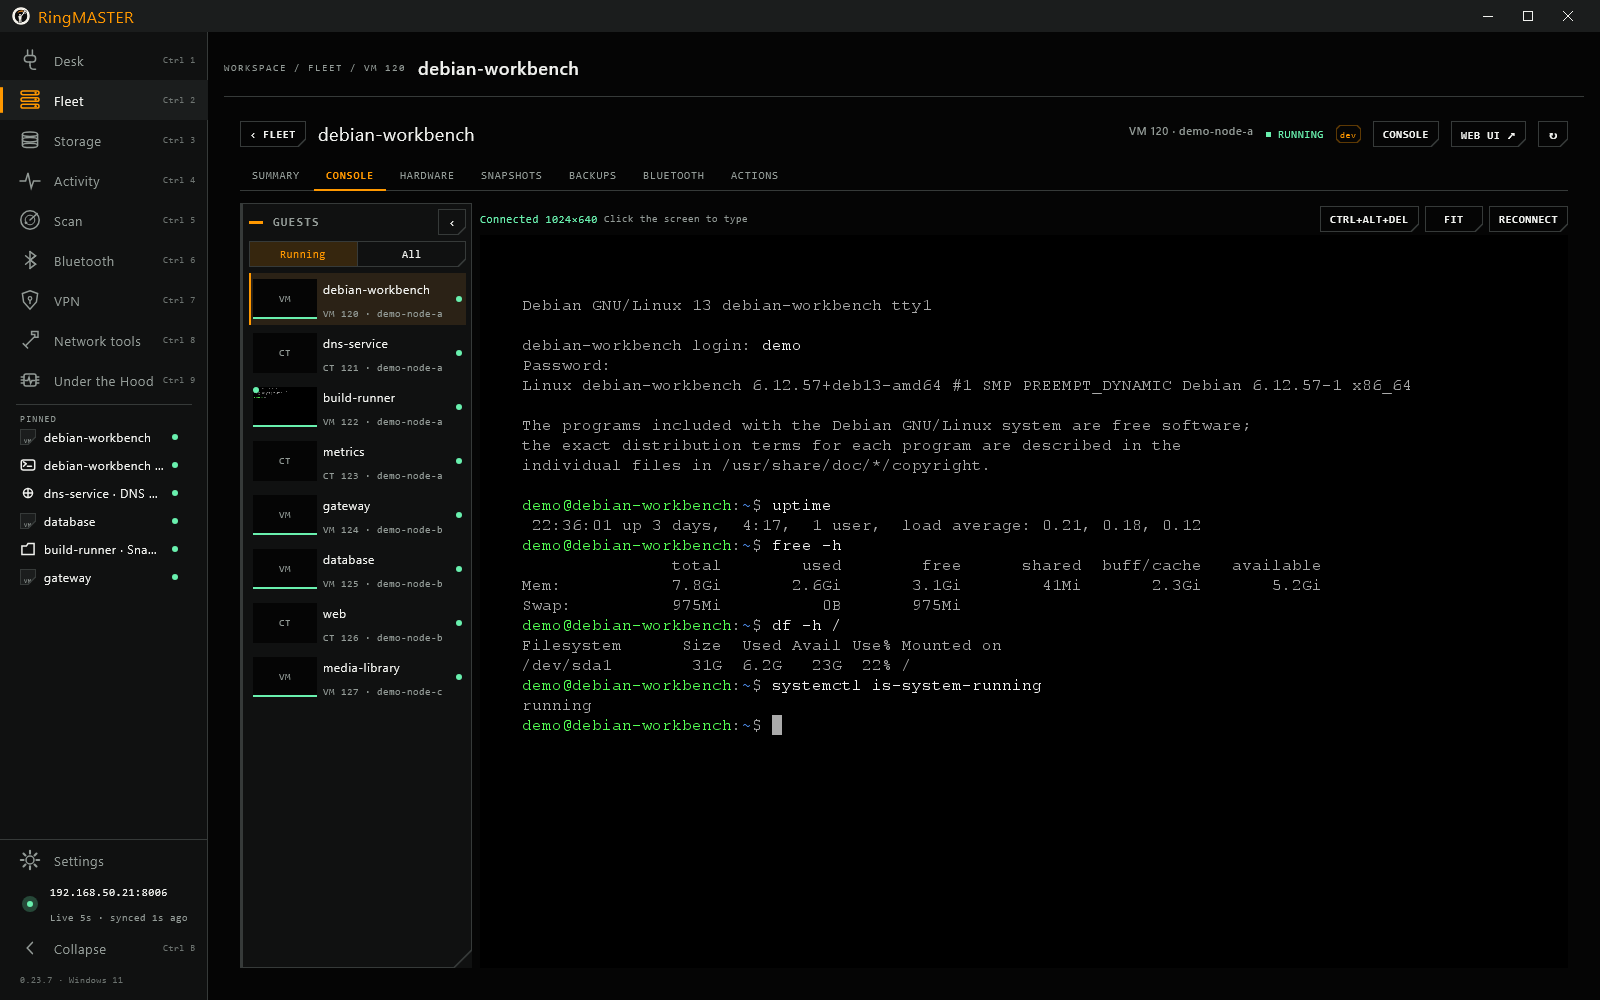
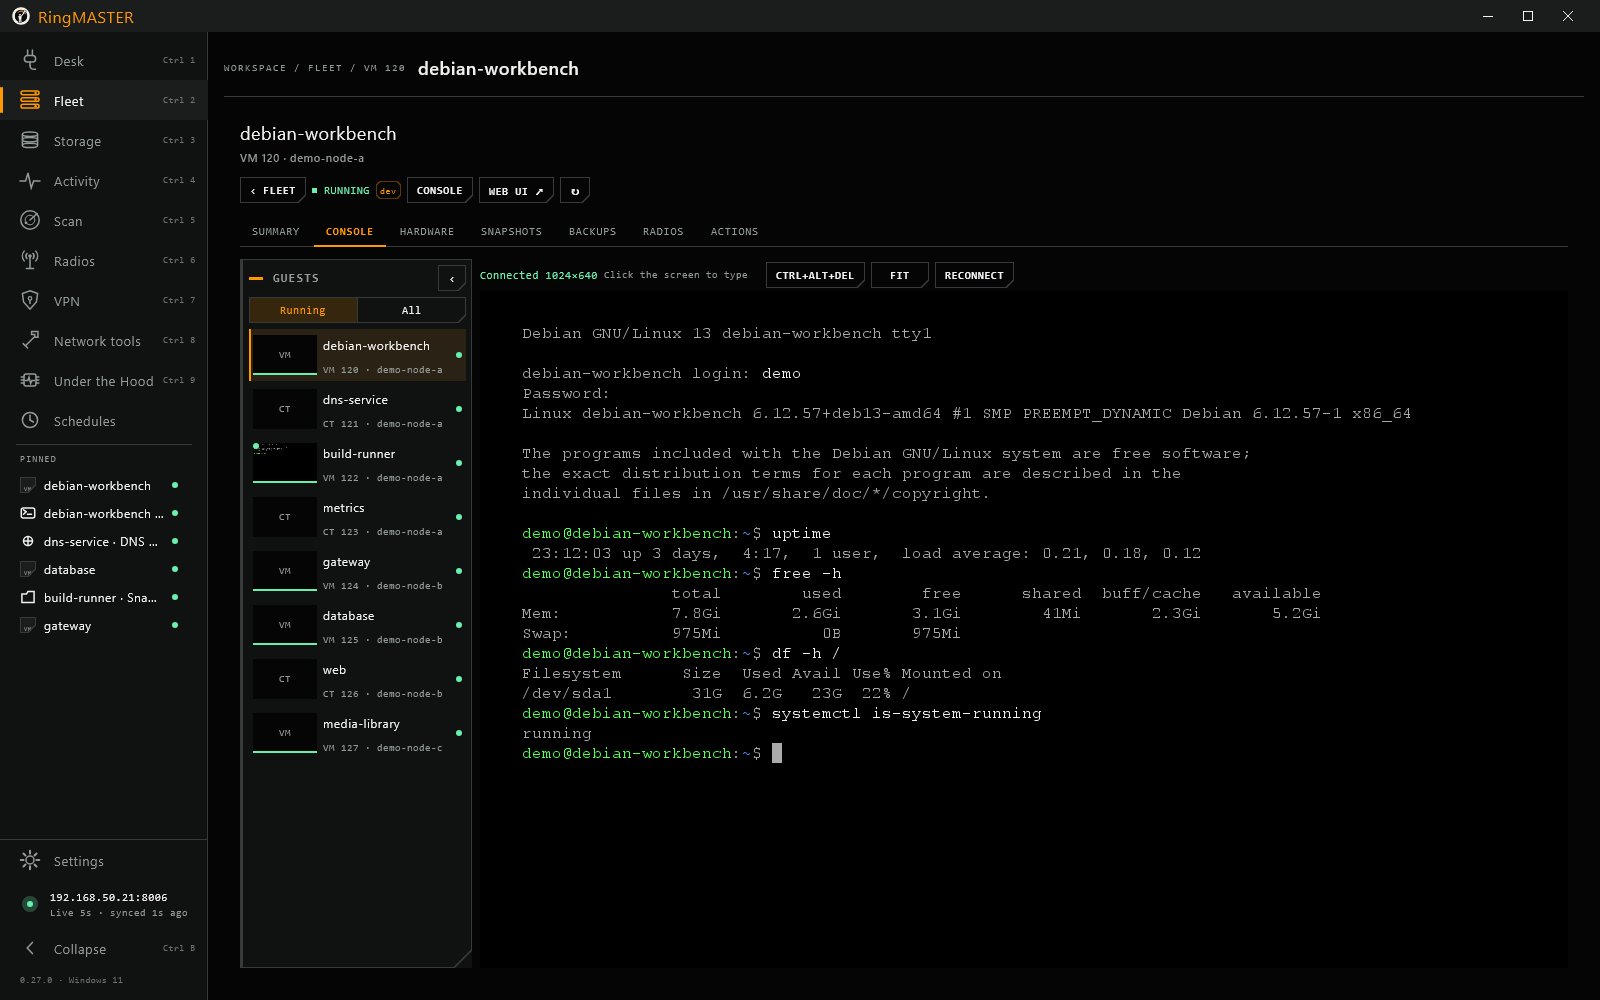
Update to RingMASTER 0.27.0

diff --git a/desktop/src/test/kotlin/local/ringleader/desktop/ReadmeShotsTest.kt b/desktop/src/test/kotlin/local/ringleader/desktop/ReadmeShotsTest.kt
@@ -31,7 +31,7 @@ import kotlin.math.sin
 /**
  * Opt-in: renders the README pictures from the app's own screens with invented sample data.
  * Set RINGMASTER_README_SHOTS to an output folder. Never connects to a server; every name and address is made up.
- * Writes fleet, guest-summary, activity, chart-lens, settings, network-tools, sign-in, console and under-the-hood PNGs,
+ * Writes fleet, guest-summary, activity, radios, chart-lens, settings, network-tools, sign-in, console and under-the-hood PNGs,
  * plus scan-clip/NNN.png frames (15 per second) for the animated scan.
  */
 class ReadmeShotsTest {
@@ -153,7 +153,7 @@ class ReadmeShotsTest {
         }
         val state = base.copy(selected = workbench, history = FleetHistory(perGuest, perNode, series(40, .19, 30.4, 96)),
             overview = base.overview!!.copy(nodes = 3, guests = guests, members = members),
-            inspection = inspection.copy(resource = workbench.resource, node = workbench.node), tasks = tasks,
+            inspection = inspection.copy(resource = workbench.resource, node = workbench.node), tasks = tasks, tasksUpdatedAt = now,
             chartHistory = InspectionSection(history), chartHistoryLoading = false)
         // The fleet picture inspects a container: its inspector row (no Console button) fits the 1600 px window.
         val fleetState = state.copy(selected = guests[6])
@@ -202,7 +202,7 @@ class ReadmeShotsTest {
                                     val selected = now.selected
                                     Text("WORKSPACE / ${page.uppercase()}${if (page == "Fleet" && selected != null) " / ${selected.kind} ${selected.id}" else ""}",
                                         fontFamily = FontFamily.Monospace, fontSize = 10.sp, letterSpacing = 1.5.sp, color = Tech.Muted)
-                                    Text(when (page) { "Fleet" -> selected?.name ?: "Fleet overview"; "Activity" -> "Recent activity"; "Scan" -> "Network scan"; "Tools" -> "Network tools"; "Under the Hood" -> "Under the Hood"; else -> "Connection desk" },
+                                    Text(when (page) { "Fleet" -> selected?.name ?: "Fleet overview"; "Activity" -> "Recent activity"; "Scan" -> "Network scan"; "Radios" -> "Bluetooth and Wi-Fi"; "Tools" -> "Network tools"; "Under the Hood" -> "Under the Hood"; else -> "Connection desk" },
                                         Modifier.weight(1f), fontSize = Tech.Title, fontWeight = FontWeight.SemiBold, maxLines = 1, overflow = TextOverflow.Ellipsis)
                                 }
                                 HorizontalDivider(color = Tech.Edge)
@@ -234,6 +234,13 @@ class ReadmeShotsTest {
             still("fleet", 1600, 1000, "Fleet", fleetState) { InventoryScreen(fleetState, workspace, null, "", {}, "All", {}, {}, {}, pins, "demo") }
             still("guest-summary", 1600, 1000, "Fleet", state) { GuestDetailPage(state, workspace, {}, { _, _ -> }, initialTab = "Summary", pins = pins, connectionKey = "demo") }
             still("activity", 1600, 800, "Activity", state) { ActivityScreen(state, workspace, null, {}, {}) }
+
+            // The Radios map: this computer and two nodes, their adapters, and the guests that hold them. Invented adapters.
+            run {
+                val radios = RadiosHub(FixedRadiosFeed(demoRadiosBoard(now)), FixedWifiFeed(demoWifiPanel(at = now)), BoardGuestRadios())
+                RadiosPageMemory.view = RadiosView.Map
+                still("radios", 1600, 1000, "Radios", state) { RadiosScreen(radios, null) }
+            }
 
             // The chart lens, opened on one guest's live CPU the way a click on its sparkline opens it, with the pointer resting on the chart.
             run {

diff --git a/desktop/src/test/kotlin/local/ringleader/desktop/ReadmeClipsTest.kt b/desktop/src/test/kotlin/local/ringleader/desktop/ReadmeClipsTest.kt
@@ -252,7 +252,7 @@ class ReadmeClipsTest {
                 repeat(90) { step() }
                 shot(1200.0, keep = true)
                 // Glide onto the inspector's CPU chart, then along it.
-                val start = Offset(1275f, 575f); val end = Offset(1545f, 575f)
+                val start = Offset(1275f, 600f); val end = Offset(1545f, 600f)
                 for (n in 1..24) { move(rest + (start - rest) * ease(n / 24f)); shot() }
                 for (n in 1..90) { move(start + (end - start) * (n / 90f)); shot() }
                 repeat(20) { shot() }

diff --git a/README.md b/README.md
@@ -4,7 +4,7 @@ A desktop app for **Proxmox VE** and **Proxmox Datacenter Manager**, for **Windo
 
 <p align="center"><img src="design/icon/final/ringmaster-icon.svg" width="160" height="160" alt="The RingMASTER emblem: a ringmaster raising a top hat inside a ring"></p>
 
-Watch every node and guest with live charts, open their consoles, and start, stop or snapshot them, without opening the Proxmox web interface. RingMASTER asks you to confirm each change, and it tells you an action worked only after the task on the server has finished.
+Watch every node and guest with live charts, open their consoles, start, stop or snapshot them, and see every Bluetooth and Wi-Fi adapter across your fleet, without opening the Proxmox web interface. RingMASTER asks you to confirm each change, and it tells you an action worked only after the task on the server has finished.
 
 ![Fleet overview with live sparklines for every guest and the inspector open on a container](docs/images/fleet.png)
 
@@ -100,9 +100,11 @@ gh attestation verify RingMASTER-<version>.msi --repo primary-null/RingMASTER
 - Guests grouped by node (or by PDM remote, then node), with search and filters, and live CPU, memory, network and disk with sparklines. The view refreshes every 5 s, 10 s, 30 s or 2 min, pauses while the window is minimised, and backs off after errors.
 - History charts for nodes and guests, from an hour to a year, with drag to zoom, a shared crosshair and CSV export.
 - Hover any live chart or gauge to read its value and time. Click it to open it large over the page, with live samples and, for nodes and guests, server history from an hour to a year. Esc or a click outside closes it.
-- Guest pages: summary, hardware, snapshots (create with RAM, roll back, delete), backups, Bluetooth, console and actions.
+- Guest pages: summary, hardware, snapshots (create with RAM, roll back, delete), backups, radios, console and actions.
+- New VM and New container: a guided form with the node's own storages, bridges, ISO images and templates, and one confirmation that lists what will be created.
 - Power actions: start, shut down, reboot, stop, reset, suspend and resume. The confirmation names the server, node, guest and action.
-- Node tools: services, the system log with follow, and available package updates (read-only). A storage page with usage and contents.
+- Node tools: services, the system log with follow, and available package updates (read-only).
+- Storage: usage and contents of every storage, and, each with its own confirmation, upload an ISO image or template, download one from a URL or the template list, remove a volume, and edit a backup's notes or protection.
 - Permissions: what the signed-in account may do, feature by feature, and which privilege each feature needs.
 - Pins: keep a guest, one of its tabs, or a web page it serves in the sidebar, with a live dot for the guest's state.
 - Tags mark templates, HA, locks, protected backups, unplugged network cards, firewalls and shared storage.
@@ -124,15 +126,34 @@ gh attestation verify RingMASTER-<version>.msi --repo primary-null/RingMASTER
 
 ![Recent activity listing sample tasks with status, start time in UTC and duration](docs/images/activity.png)
 
+**Radios: Bluetooth and Wi-Fi**
+- One map of every Bluetooth and Wi-Fi adapter: this computer's, each node's (USB and PCI), and which guest each one is given to, with how sure that match is. Lines are solid to a running guest and dashed to a stopped one.
+- Four states, each drawn in its own icon, colour and word: Active, Ready, Inactive (kept for a stopped guest) and Disabled (turned off by a radio switch). They change live as guests start and stop.
+- A Radios strip on Fleet, a Radios tab on each guest, and a radios section on each node.
+- Wi-Fi: the networks this computer sees, with channels and signal over time, or the networks a VM sees through its own adapter. Bluetooth: a live scan on this computer or inside a VM.
+- Network names and Bluetooth and Wi-Fi addresses stay hidden until you choose Show names, and never go into diagnostics. Saved Wi-Fi passwords are never read. Nothing here changes anything on a server, and a command runs inside a guest only when you click for it.
+- On Windows, Wi-Fi scans need Location turned on (Settings > Privacy & security > Location). On Linux they use NetworkManager or `iw`. Listing a node's USB adapters needs an account that may list USB devices (in Proxmox VE, `Sys.Modify` on `/`).
+
+![The Radios map: this computer and two nodes with their Bluetooth and Wi-Fi adapters, lines to the guests that hold them](docs/images/radios.png)
+
+**RingMASTER Engine (optional, for Linux guests)**
+- Where the QEMU guest agent cannot answer (a container, or an account without guest-agent rights), a guest's Radios tab offers to set up the RingMASTER Engine: a small program that runs inside the guest and answers RingMASTER over TLS on port 8696.
+- It only reads which radios the guest has, and scans when you ask. It has no shell, runs nothing it is sent, never reads a saved Wi-Fi password, and runs as its own account without root. It answers only local networks and tailnets.
+- Install it with one click through the guest agent where that is allowed, by pasting one command that fetches it from RingMASTER over a one-time link, or, for a guest with internet, from this release page, checked by its SHA-256. You pair it by comparing the certificate fingerprint the installer prints and typing its one-time pairing token. Settings > RingMASTER Engine lists the pairings and removes them.
+- The Engine is built for Linux on x86_64 and aarch64 by this repository's release workflow and ships inside each RingMASTER package. Remove it from a guest with `sudo sh /usr/local/lib/ringmaster-engine/uninstall.sh`.
+
 **Network and devices**
 - A scan of your private networks that finds Proxmox VE, Backup Server and Datacenter Manager, Pi-hole, AdGuard Home, Home Assistant and other web services. It sends no credentials, and it shows each certificate for you to compare rather than trusting it.
 - Network tools: ping, traceroute, port check, DNS, HTTP/TLS, iPerf3 and WireGuard, plus [your own tools](docs/plugins/README.md) described in small JSON files.
 - VPN: Tailscale and WireGuard status, up and down, exit node, and WireGuard import.
-- Bluetooth: a live scan on this computer (Windows, or BlueZ on Linux) and inside a VM through the guest agent.
 
 ![A network scan sweeping a /24: Proxmox servers and other services appear as the sweep reaches their addresses](docs/images/scan.gif)
 
 ![Network tools after a ping, with the latency chart and the ping output](docs/images/network-tools.png)
+
+**Schedules and alerts**
+- Schedules: start or shut down a guest once, daily, on weekdays or on chosen days. They run while RingMASTER is running, also when its window is closed to the notification area; a run missed by more than 15 minutes is recorded as Missed.
+- Watcher: keep an eye on chosen nodes and guests across your saved connections, with notifications when one changes state or stays under heavy load, and when a task fails.
 
 **The app**
 - A theme-aware notification-area menu with shortcuts to Fleet, Activity, Notifications, Schedules, other pages and tools, Settings, update checks and About. It shows the running version and schedule status; shortcuts bring the app forward.
@@ -151,7 +172,7 @@ gh attestation verify RingMASTER-<version>.msi --repo primary-null/RingMASTER
 
 ![Under the Hood showing a stream of synthetic API calls, latency bands and the slowest requests](docs/images/under-the-hood.png)
 
-**Not yet:** guest editing, creating or restoring backups, node actions, storage changes, firewall, SDN, notifications, the scheduler, a file manager, and installing updates in place.
+**Not yet:** guest editing, creating or restoring backups, node actions, firewall, SDN, attaching radios to guests, pairing and connecting Bluetooth devices, a file manager, and installing updates in place.
 
 ## Privacy and network use
 

diff --git a/RELEASING.md b/RELEASING.md
@@ -12,7 +12,7 @@ Releases are built by GitHub Actions from a version tag. The update feed is sign
 | `fedora-45-x86_64-rpm` | `ringmaster-<version>-fedora-45-x86_64.rpm` | a Fedora 45 container |
 | `arch-x86_64-pkg` | `ringmaster-<version>-arch-x86_64.pkg.tar.zst` | an Arch Linux container |
 
-Plus `SHA256SUMS`, `ringmaster-update.json` and `ringmaster-update.json.sig`.
+Plus `SHA256SUMS`, `ringmaster-update.json` and `ringmaster-update.json.sig`, and the RingMASTER Engine bundles `ringmaster-engine-<engine version>-linux-x86_64.tar.gz` and `-linux-aarch64.tar.gz` (built by the workflow's engine job from `native/ringmaster-engine`, packed into every package, and offered to guests with internet; they are not part of the update feed).
 
 Linux packages are built on their own distribution because jpackage writes the build system's package names into Depends/Requires (Debian `libjpeg62-turbo`, Ubuntu `libjpeg-turbo8`, Fedora `libglvnd-glx`). Arch wraps the app image with a PKGBUILD. Debian and Ubuntu use `amd64` in the file name; Fedora and Arch use `x86_64`. The packages are not code-signed or GPG-signed. Integrity comes from `SHA256SUMS`, the build attestations and the signed update feed. Each Linux desktop entry is named RingMASTER, ends its Categories line with a semicolon, and sets StartupWMClass to `local-ringleader-desktop-MainKt`.
 
